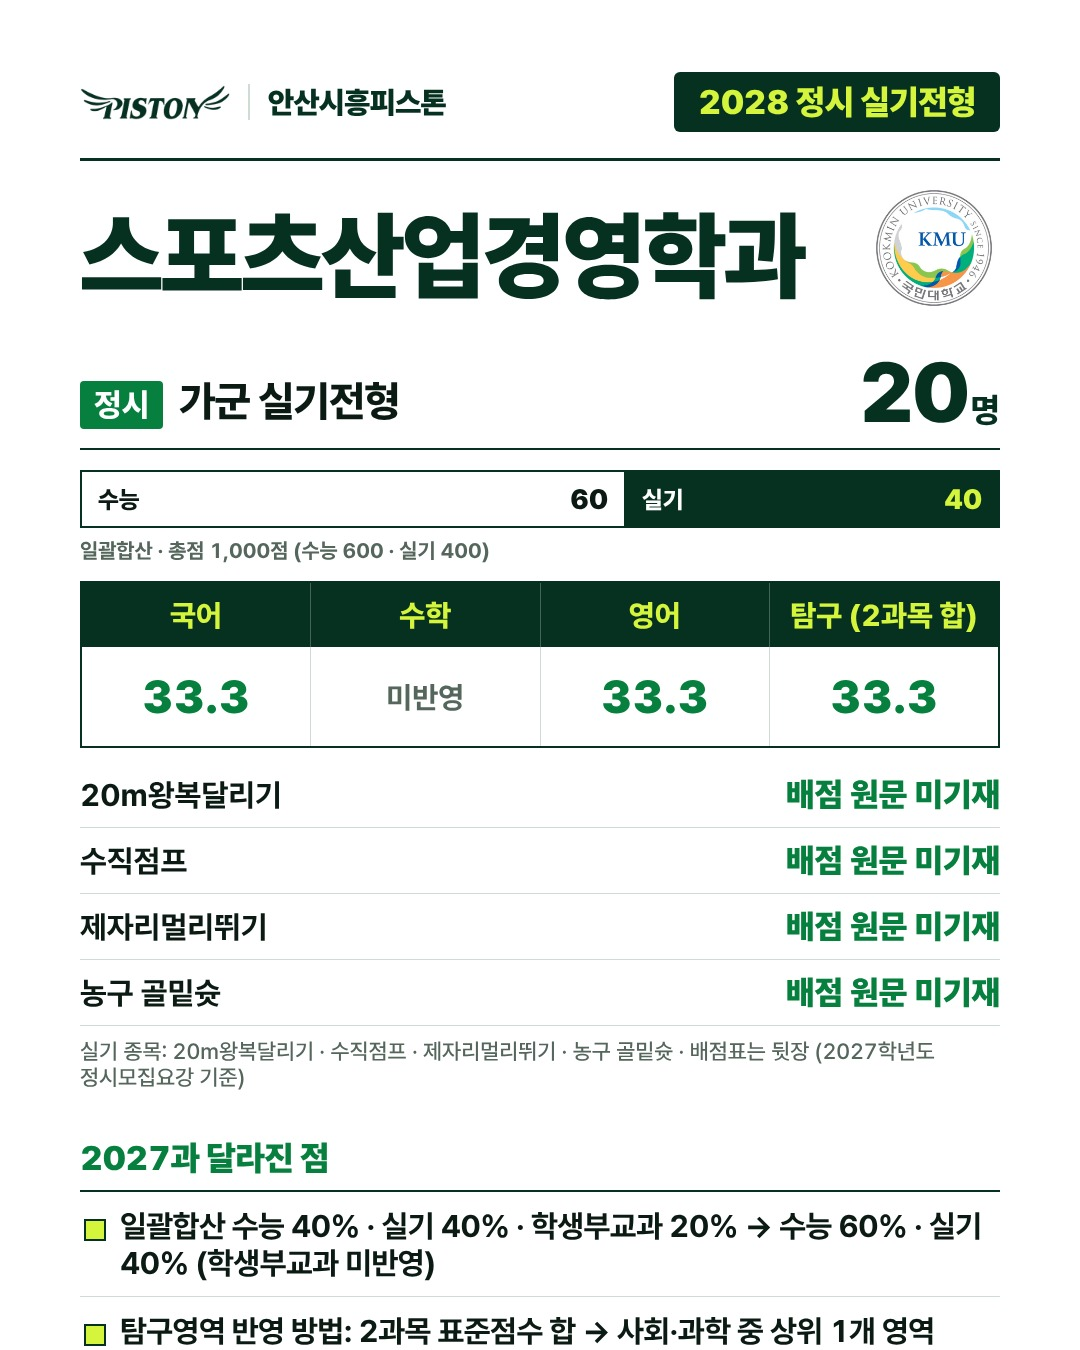
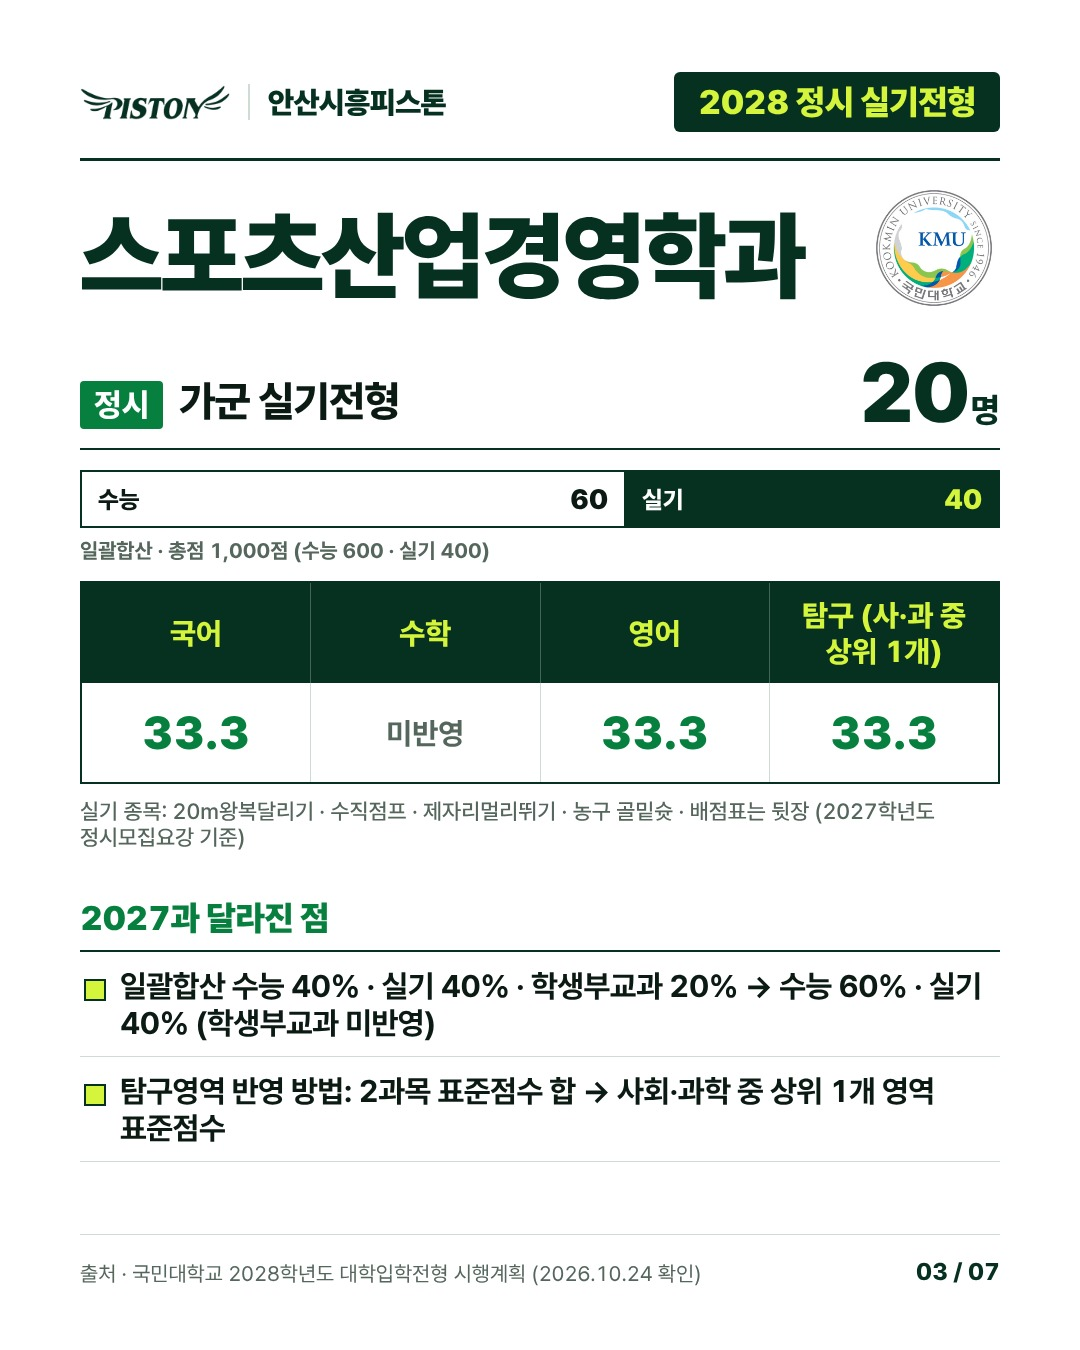
국민대 정시: 탐구 상위 1개 영역 표기
Claude-Session: https://claude.ai/code/session_01EGTn7G8nWP1yv5M2jqmoFb

Changed region(s): [[0.0611, 0.4356, 0.9472, 1.0]]

diff --git a/social/out/kookmin-jeongsi/blog.md b/social/out/kookmin-jeongsi/blog.md
@@ -4,7 +4,7 @@
 
 ## 결론 먼저
 - **스포츠교육학과**: 정시 20명 (정시 20m왕복달리기·제자리멀리뛰기·윗몸일으키기·메디신볼던지기)
-- **스포츠산업경영학과**: 정시 20명 (정시 20m왕복달리기·수직점프·제자리멀리뛰기·농구 골밑슛)
+- **스포츠산업경영학과**: 정시 20명 (정시 )
 
 [이미지: post-1.jpg]
 
@@ -19,7 +19,7 @@
 ## 스포츠산업경영학과
 ### 정시 가군 실기전형 — 20명
 - 반영비율: 수능 60% + 실기 40% (일괄합산 · 총점 1,000점 (수능 600 · 실기 400))
-- 실기종목: 20m왕복달리기 배점 원문 미기재, 수직점프 배점 원문 미기재, 제자리멀리뛰기 배점 원문 미기재, 농구 골밑슛 배점 원문 미기재
+- 실기종목: 
 - 실기 종목: 20m왕복달리기 · 수직점프 · 제자리멀리뛰기 · 농구 골밑슛 · 배점표는 뒷장 (2027학년도 정시모집요강 기준)
 
 [이미지: post-3.jpg]
